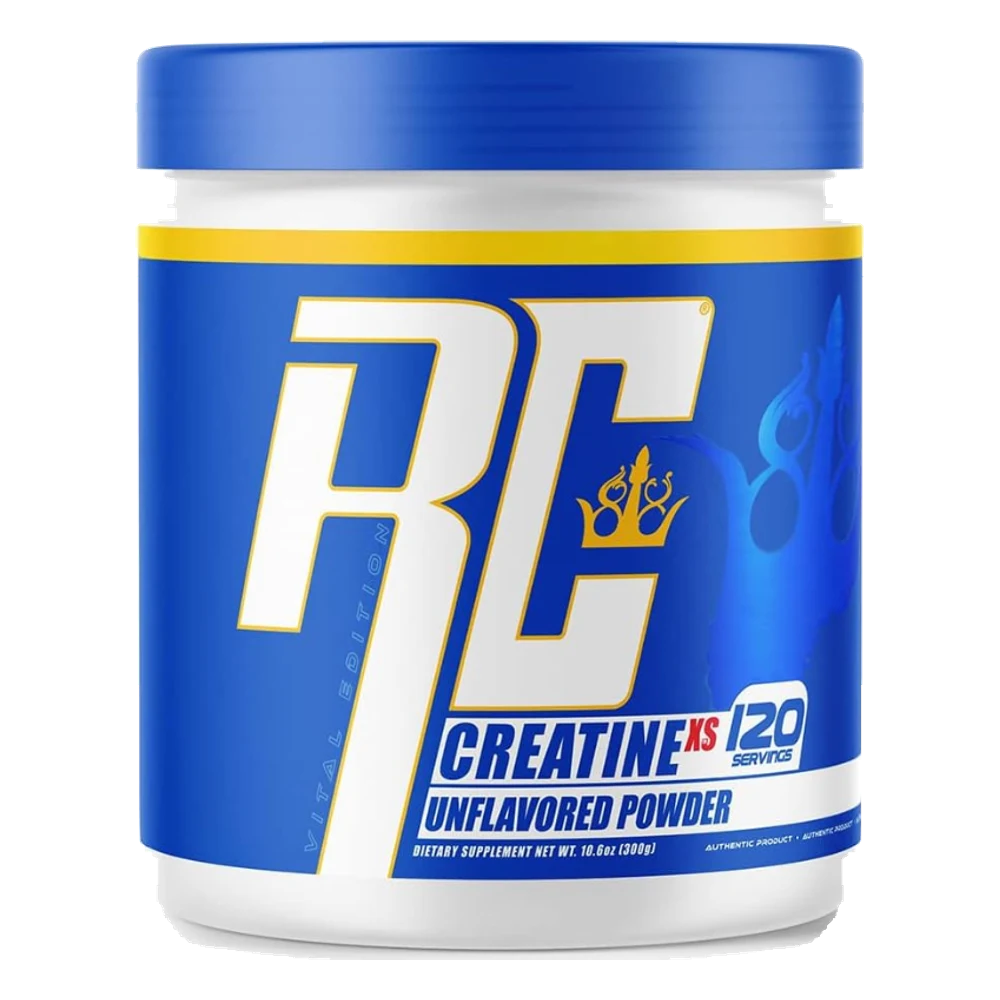
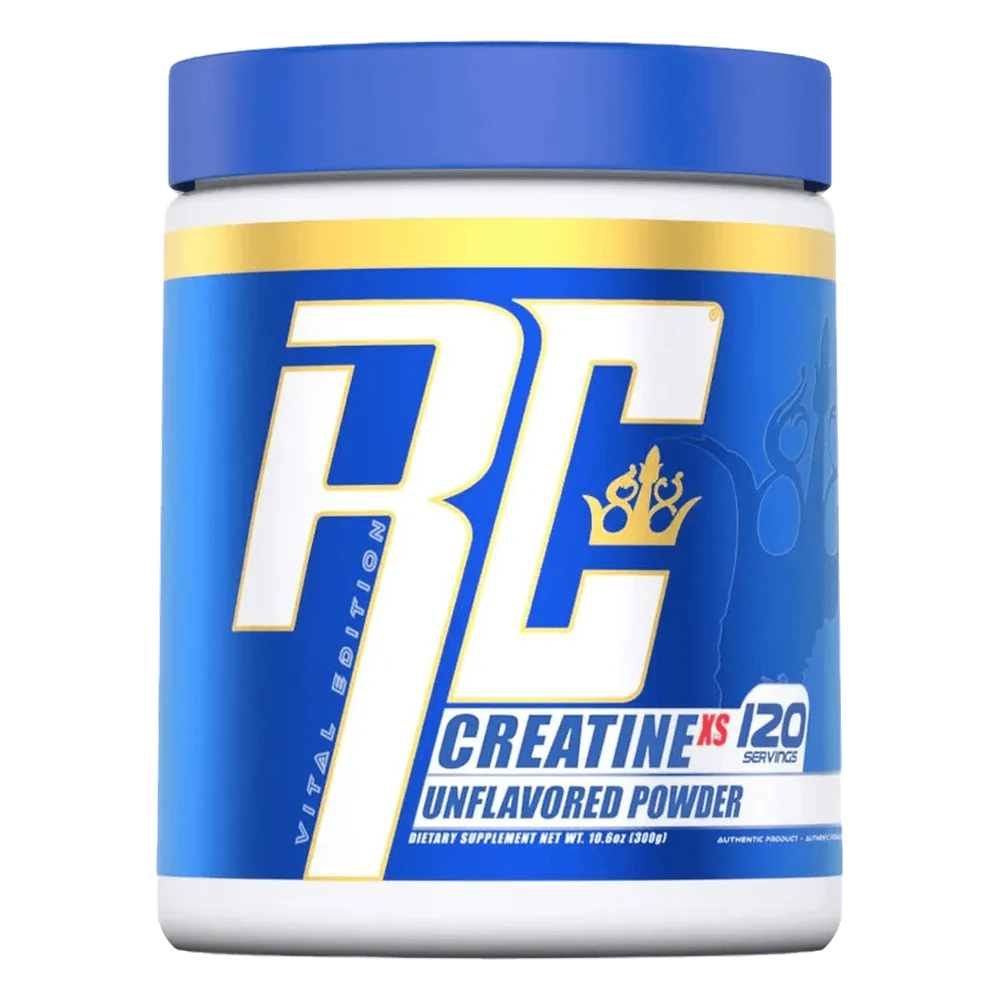
Use the official Ronnie Coleman render for Creatine XS
Replaces the lifepharmacy photo with the brand's own 2417 px render from
ronniecoleman.net. Its light-grey backdrop differs from the white tub,
so the cutout is clean; the separate floor shadow is dropped.

diff --git a/scripts/seed-brand-products.ts b/scripts/seed-brand-products.ts
@@ -4865,7 +4865,7 @@ const products: BrandProduct[] = [
     size: "۳۰۰ گرم",
     imageUrl: "/images/products/ronnie-coleman-creatine-xs.webp",
     // Label (supplement facts, directions, warnings, allergen line) from the
-    // pack's wrap-around label photo on supp.co; pack photo from lifepharmacy.com.
+    // pack's wrap-around label photo on supp.co; pack photo from ronniecoleman.net.
     description:
       "کراتین ایکساس رونی کلمن (Signature Series، Vital Edition)؛ پودر کراتین مونوهیدرات میکرونیزهی خالص و بدون طعم. هر وعده (نصف اسکوپ، ۲٫۵ گرم) ۲٫۵ گرم کراتین مونوهیدرات دارد و قوطی ۳۰۰ گرمی ۱۲۰ وعده است.\nمواد تشکیلدهنده: کراتین مونوهیدرات.",
     manufacturerClaims:
